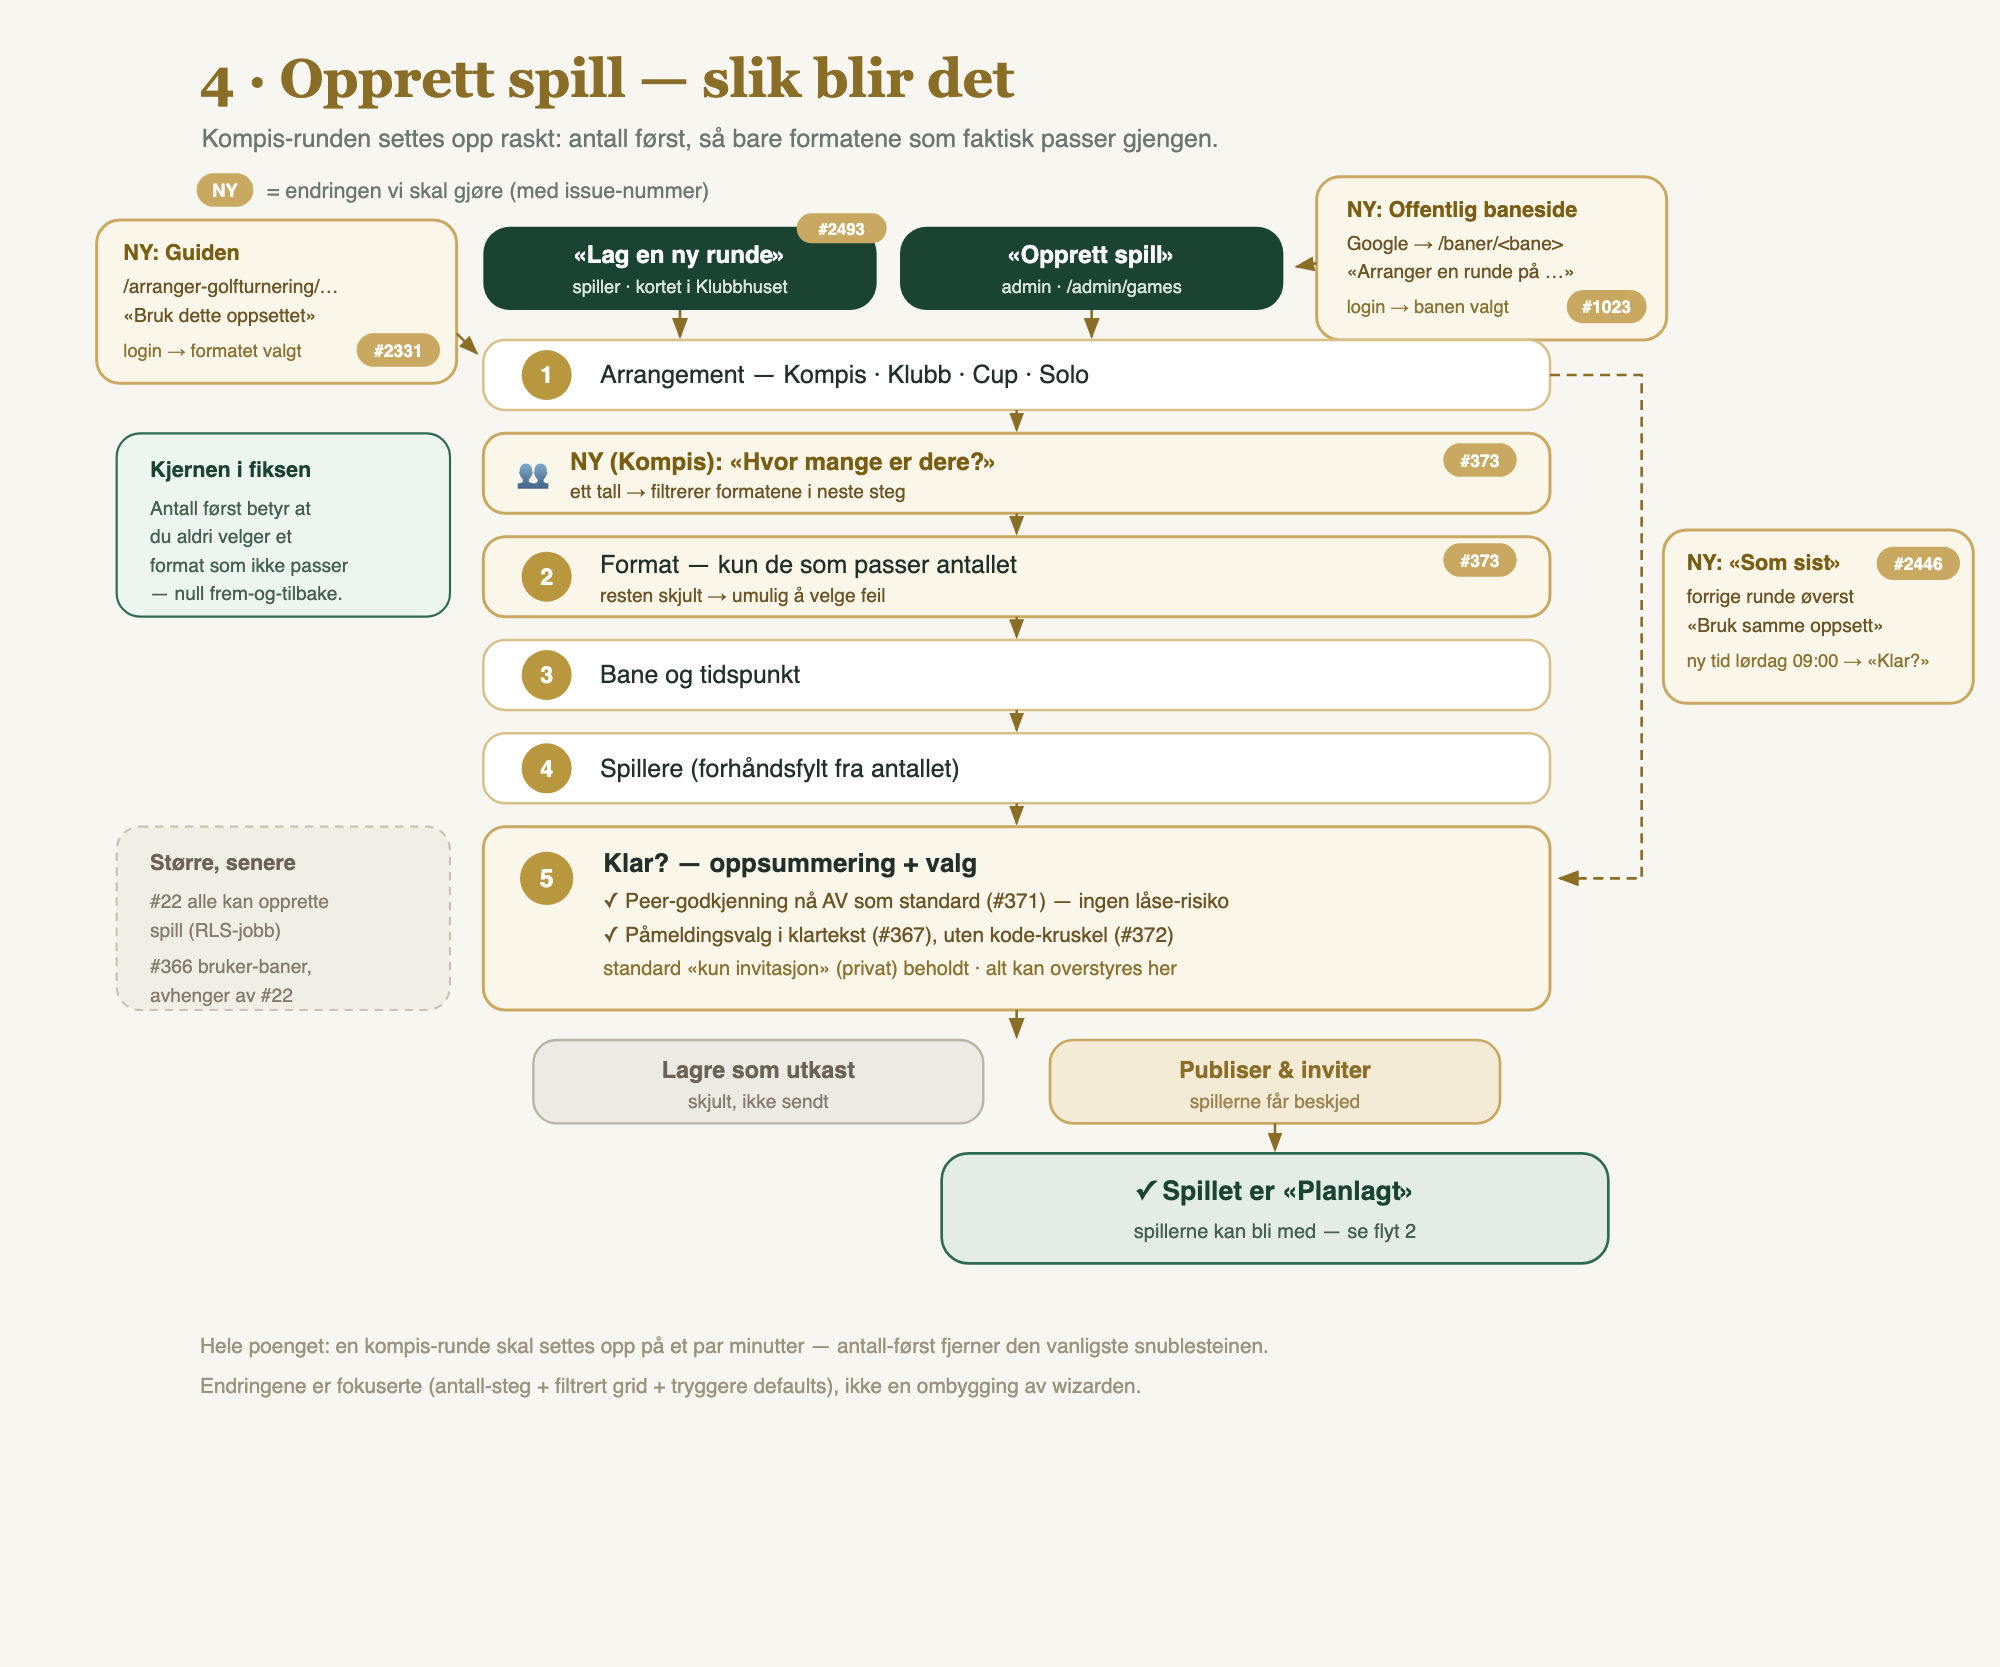
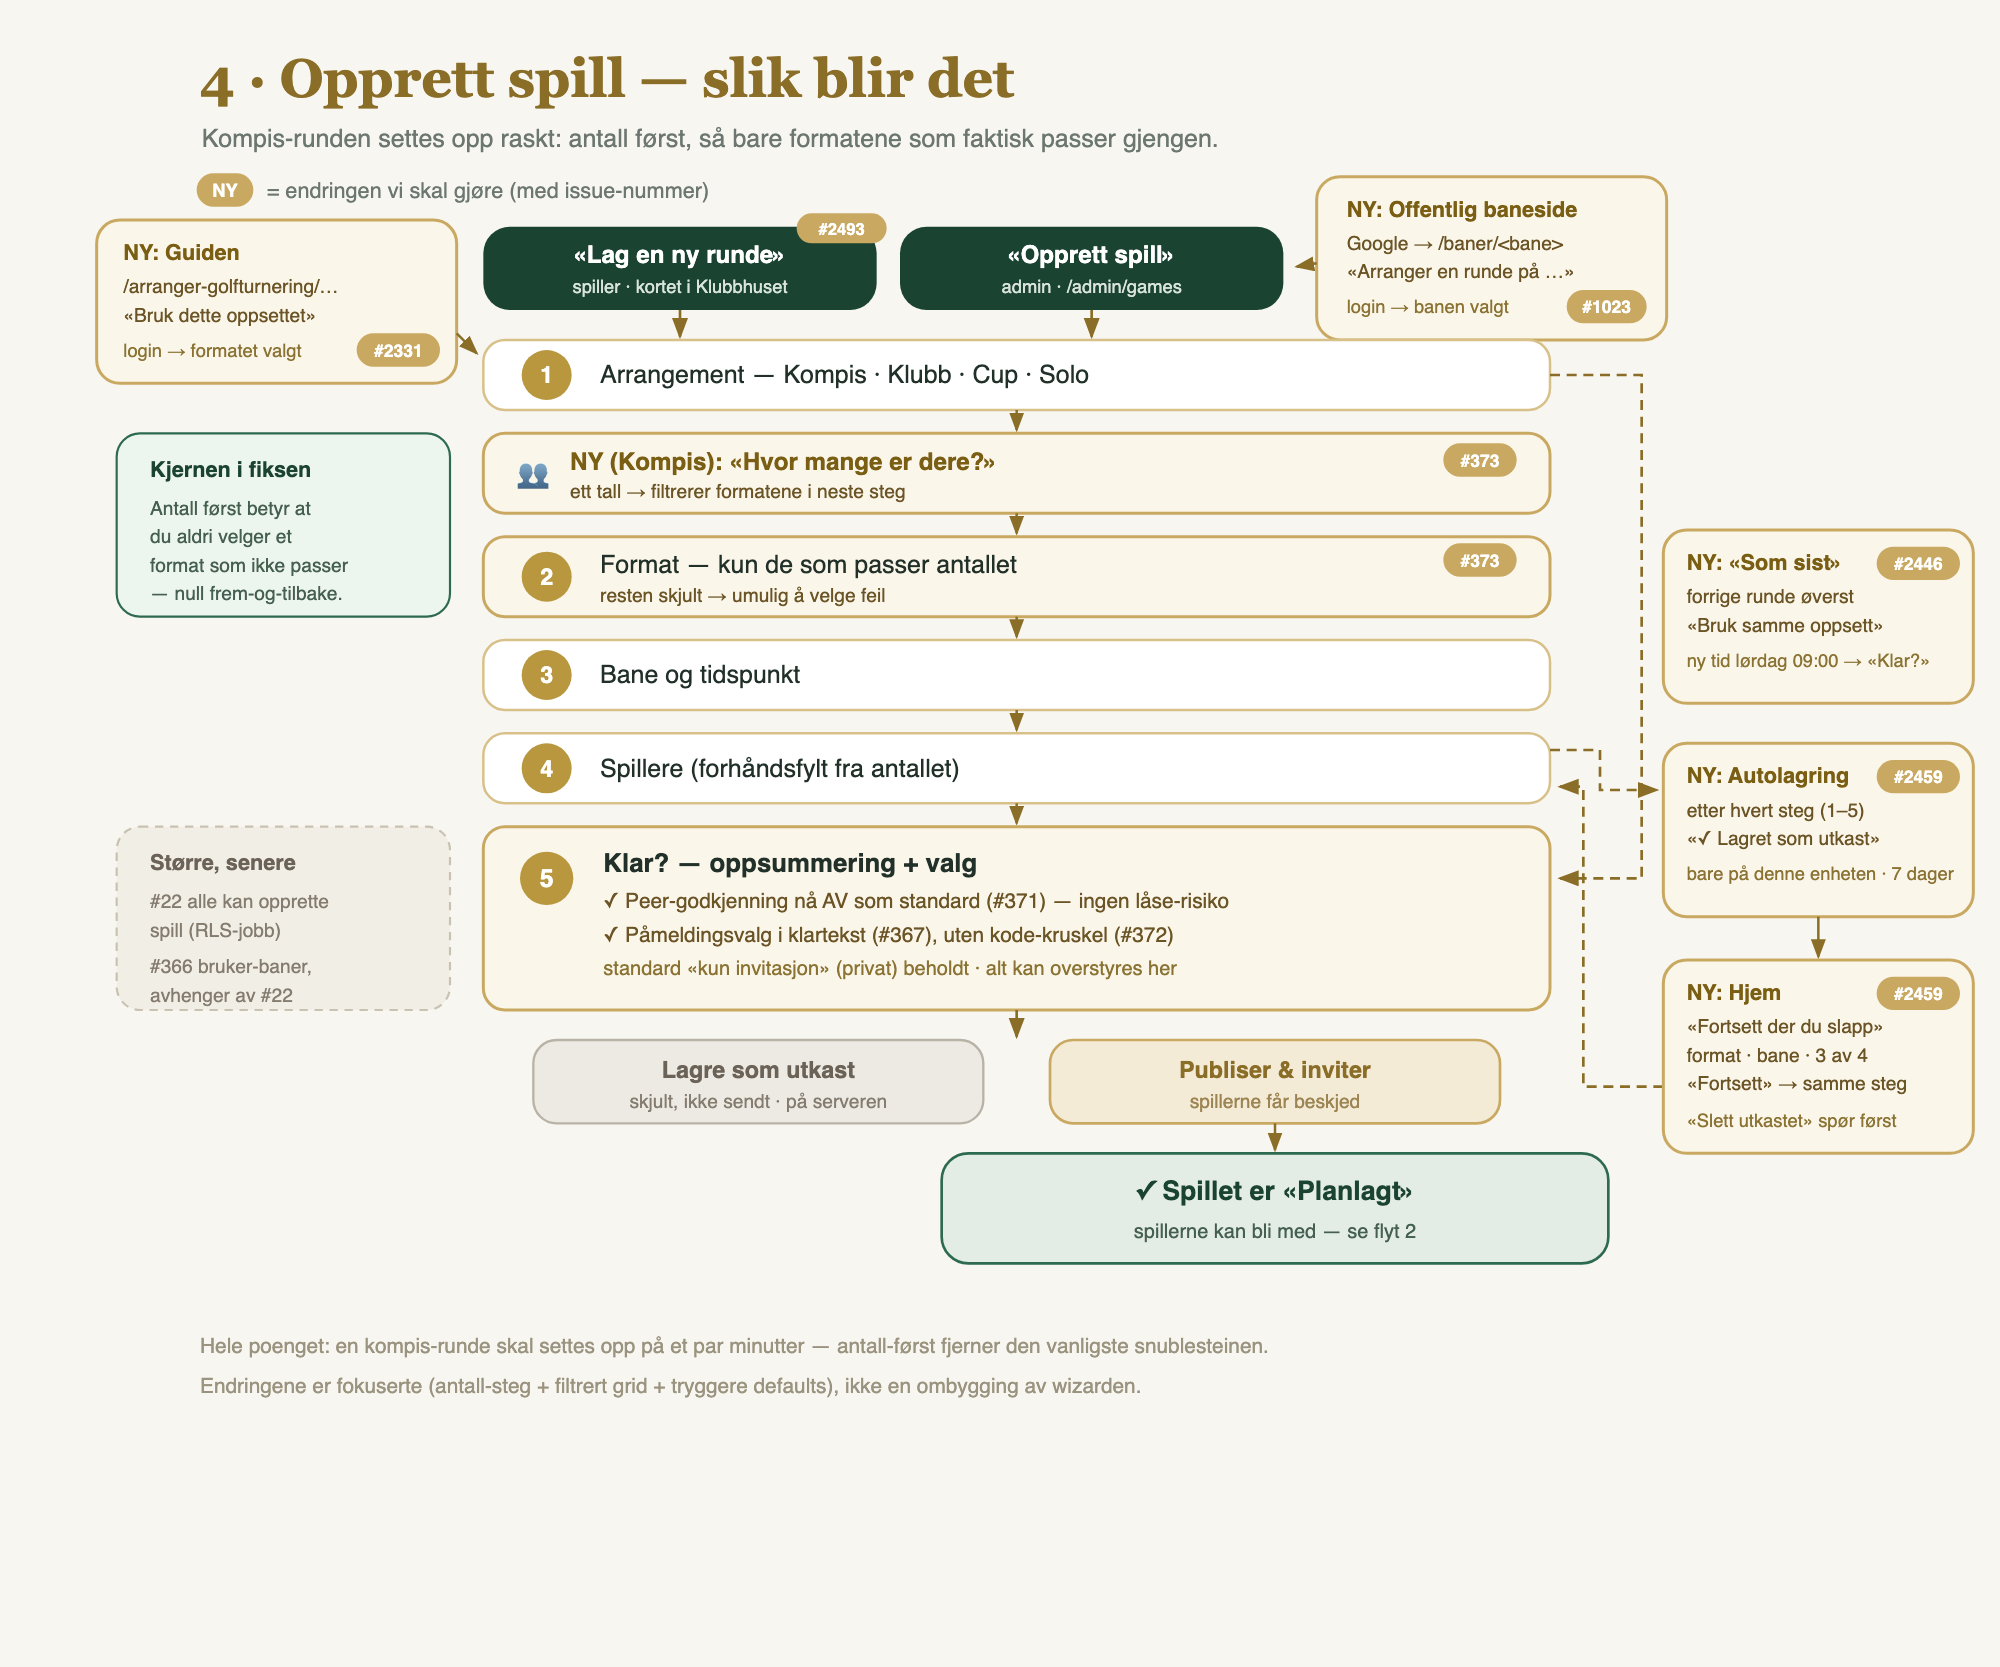
docs(flows): the new-game draft saves itself and Home resumes it
Flow 4 (future) shows the autosave on every step and the Home entry;
user-flows.md gets the Home node and an autosave paragraph.

Refs #2459

Changed region(s): [[0.775, 0.4367, 0.992, 0.5303], [0.837, 0.5615, 0.992, 0.6863], [0.31, 0.6551, 0.434, 0.6863]]

diff --git a/docs/user-flows.md b/docs/user-flows.md
@@ -43,6 +43,8 @@ flowchart TD
   Prof -- ja --> Home["/ (Hjem)"]
   CP --> Home
   Home --> PH{har spill?}
+  Home --> Resume["Fortsett der du slapp<br/>(halvferdig oppsett på denne enheten, #2459)"]
+  Resume -- Fortsett --> Wiz["Veiviseren på steget du slapp"]
   PH -- ja --> List["Mine spill / Avsluttede spill"]
   PH -- nei --> Disc["Finn turneringer<br/>(åpne spill + dine klubbers spill)"]
   Nav["Bunn-nav (alle innloggede):<br/>Hjem · Innboks · Klubbhuset · Profil"]
@@ -246,6 +248,8 @@ flowchart LR
 | 3 Bane og tidspunkt | `BasicsSection` | Bane + tee-boks (fra `getNewGameFormData`), tee-off (Oslo-tz), auto-navn. «Opprett ny bane» går til `/opprett-bane?next=…` med veien tilbake til steg 3. Der viser «Finnes banen alt?» opptil fem baner som ligner navnet du skriver (`similar_courses`, #2485). «Bruk denne», eller en bane du lagrer der, kommer tilbake valgt: når utkastet er hentet, velger veiviseren banen fra `?bane=` over utkastets og fjerner parameteren fra adressen (`useCourseFromUrl`). `banevalg=1` står igjen, så «Som sist» holder seg borte fra steg 1 også etter en reload (#2446). Format og spillere står. |
 | 4 Spillere | `PlayerPickerGrid` + `PlayerTray`, så `TeamsAssignmentSection` | Vennene (eller klubbmedlemmene) som kort, du selv først og så sist spilt først (`orderPickerPlayers`, #2321). Brettet nederst teller mot målet («3 av 4 · én til»). Lagformater og singles matchplay fordeler lag, sider og flights på en egen skjerm («Neste: lagene»); solo-formatene har tee per spiller på velgeren. Gjest legges til fra «+ Gjest»; «✉ E-post» samler adresser som inviteres når spillet publiseres (`sendPublishInvites`). Steget kan stå tomt hvis selv-påmelding velges på steg 5, og i en klubb-turnering med individuell påmelding (#2433). |
 | 5 Klar? | `ReadyStep` | Et lite invitasjonskort med spillnavnet som felt midt i kortet, og en sjekkliste (Bane, Format, Tee-off, Spillere) med status og «Endre» som hopper til steget valget bor på (#2282). Under lista: «Hvem kan melde seg på?» (ikke i en klubb-turnering, der medlemskapet er invitasjonen) og «Vis avanserte innstillinger». Brettet nederst: «Publiser og del invitasjonen» (`createAndPublishGame`, status `scheduled` + invitasjoner) eller «Lagre som utkast» (`createGameDraft`, status `draft`). Publisering varsler alle på lista én gang (`notifyRosterInvites`); en tom klubb-turnering varsler ingen. «Lagre som utkast» varsler ingen (#2445). En venn uten fullført profil stopper ikke publiseringen. Runden starter når profilen er på plass, og spillerraden på steg 5 sier «N venter på profil» (#2441). Er alle valgte spillere gjester, blir spillerraden rød og publiseringen stoppes alltid, uansett påmeldingsmåte; serveren avviser også (`guestOnlyRoster`, #2570). Redigering av en planlagt runde stoppes ikke. |
+
+**Autolagring (#2459).** Veiviseren lagrer oppsettet av seg selv etter hvert steg, i `localStorage` på denne enheten, per bruker og per flate (`/opprett-spill`, `/admin/games/new`), i 7 døgn (`wizardStatePersistence`). Det er ingen `games`-rad, ingen invitasjon og ingen synlighet for spillerne: «Lagre som utkast» på «Klar?» er fortsatt veien til et serverutkast. Merket «✓ Lagret som utkast» under stegtittelen står bare når siste skriving gikk. Fra steg 2 og utover står oppsettet øverst på Hjem under «Fortsett der du slapp» (`ResumeDraftCard`): format, bane, valgte spillere mot antallet fra steg 2 og «Steg X av 5». «Fortsett» åpner den lagrede lenka (steg, `skjerm=lag` og kontekst som `?klubb=`), «Slett utkastet» går til `/opprett-spill/slett-utkast`. Publisering, «Lagre som utkast», sletting, utlogging, eierbytte og kontosletting fjerner det.
 
 Publiserer en arrangør som ikke er admin uten å stå på lista selv, lander hen på arrangørvisningen på `/games/[id]` i stedet for ikke-funnet-siden (#2202).
 
